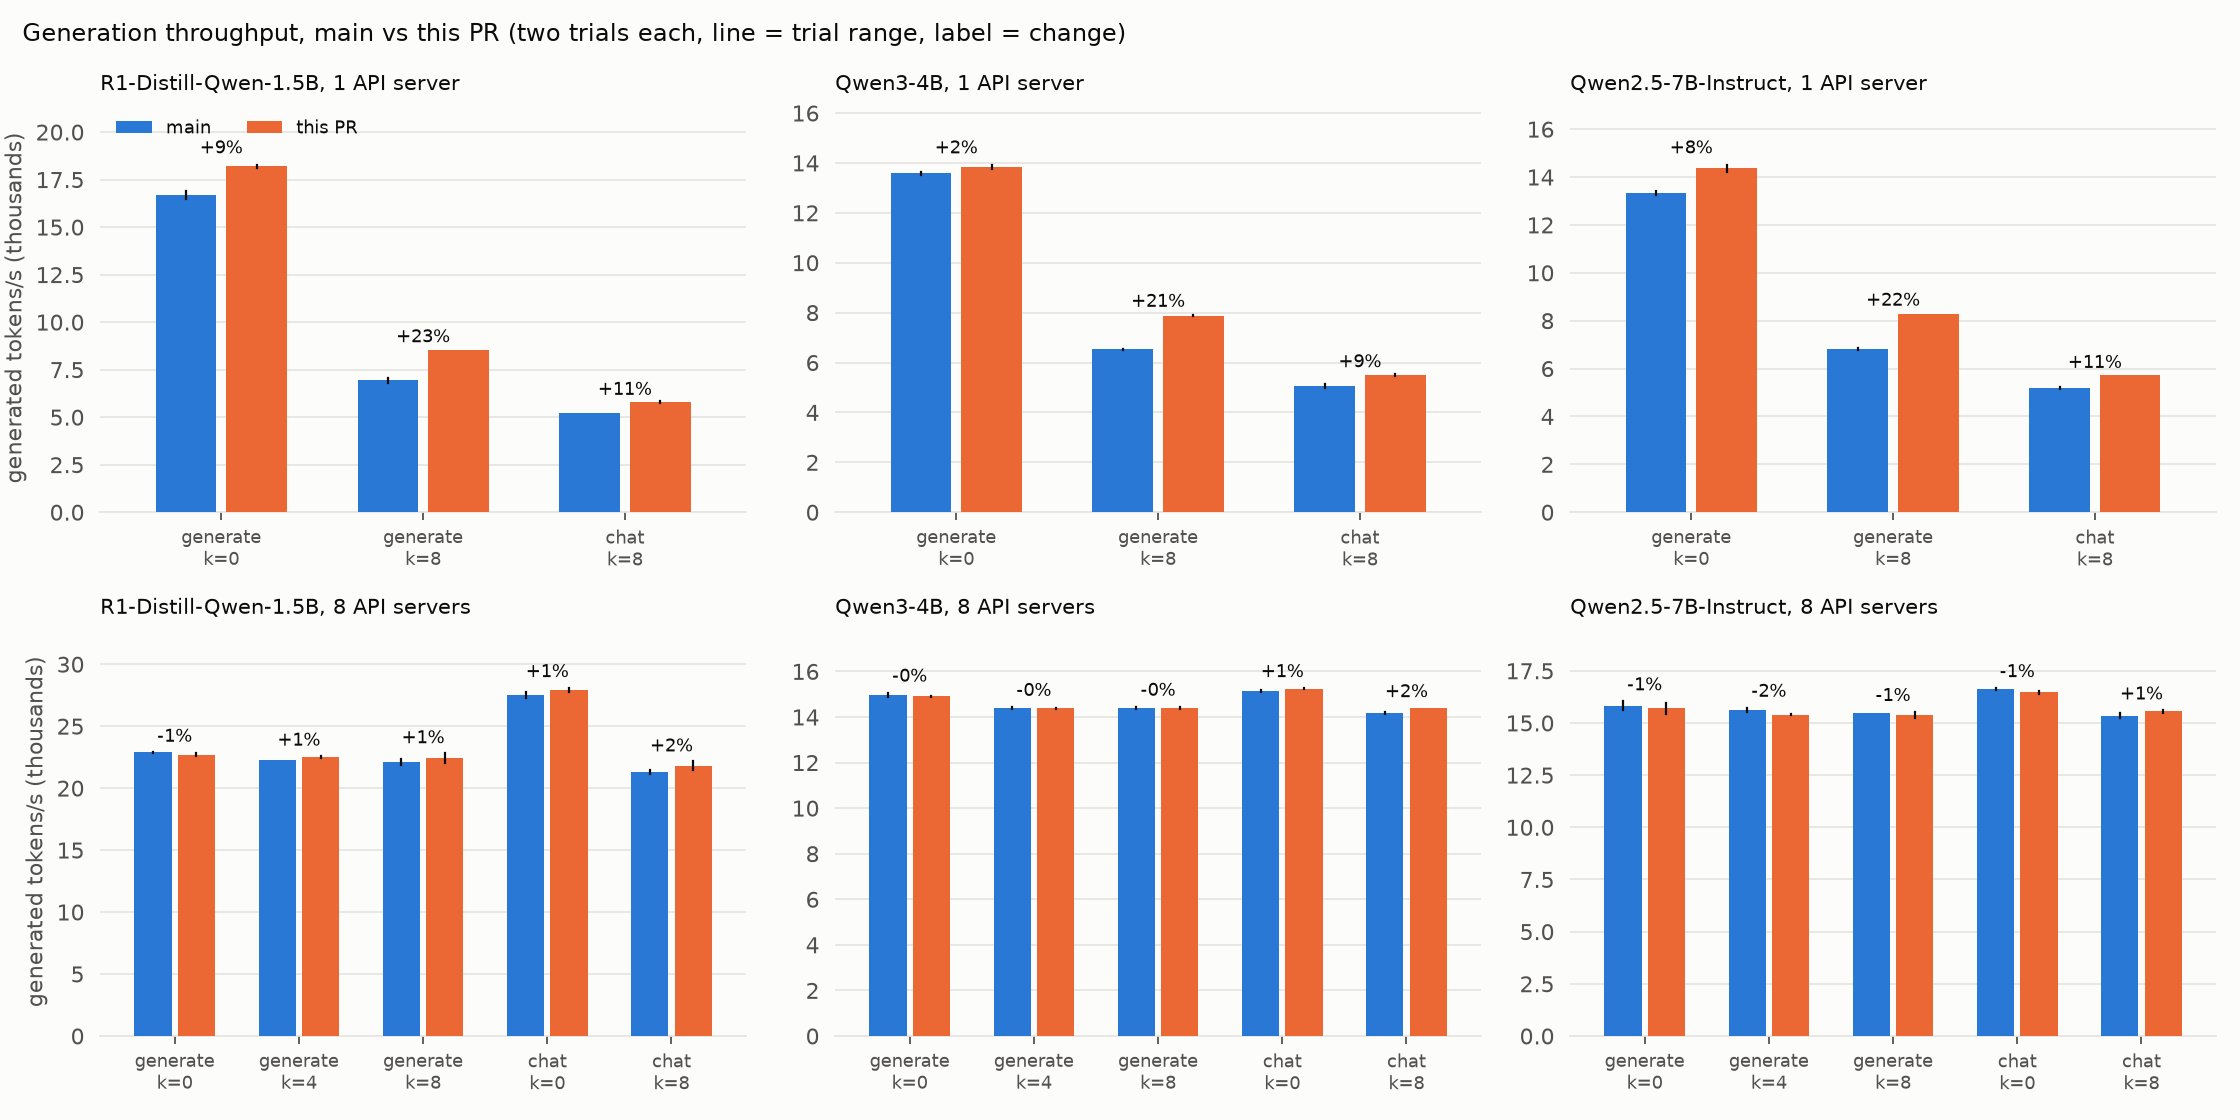
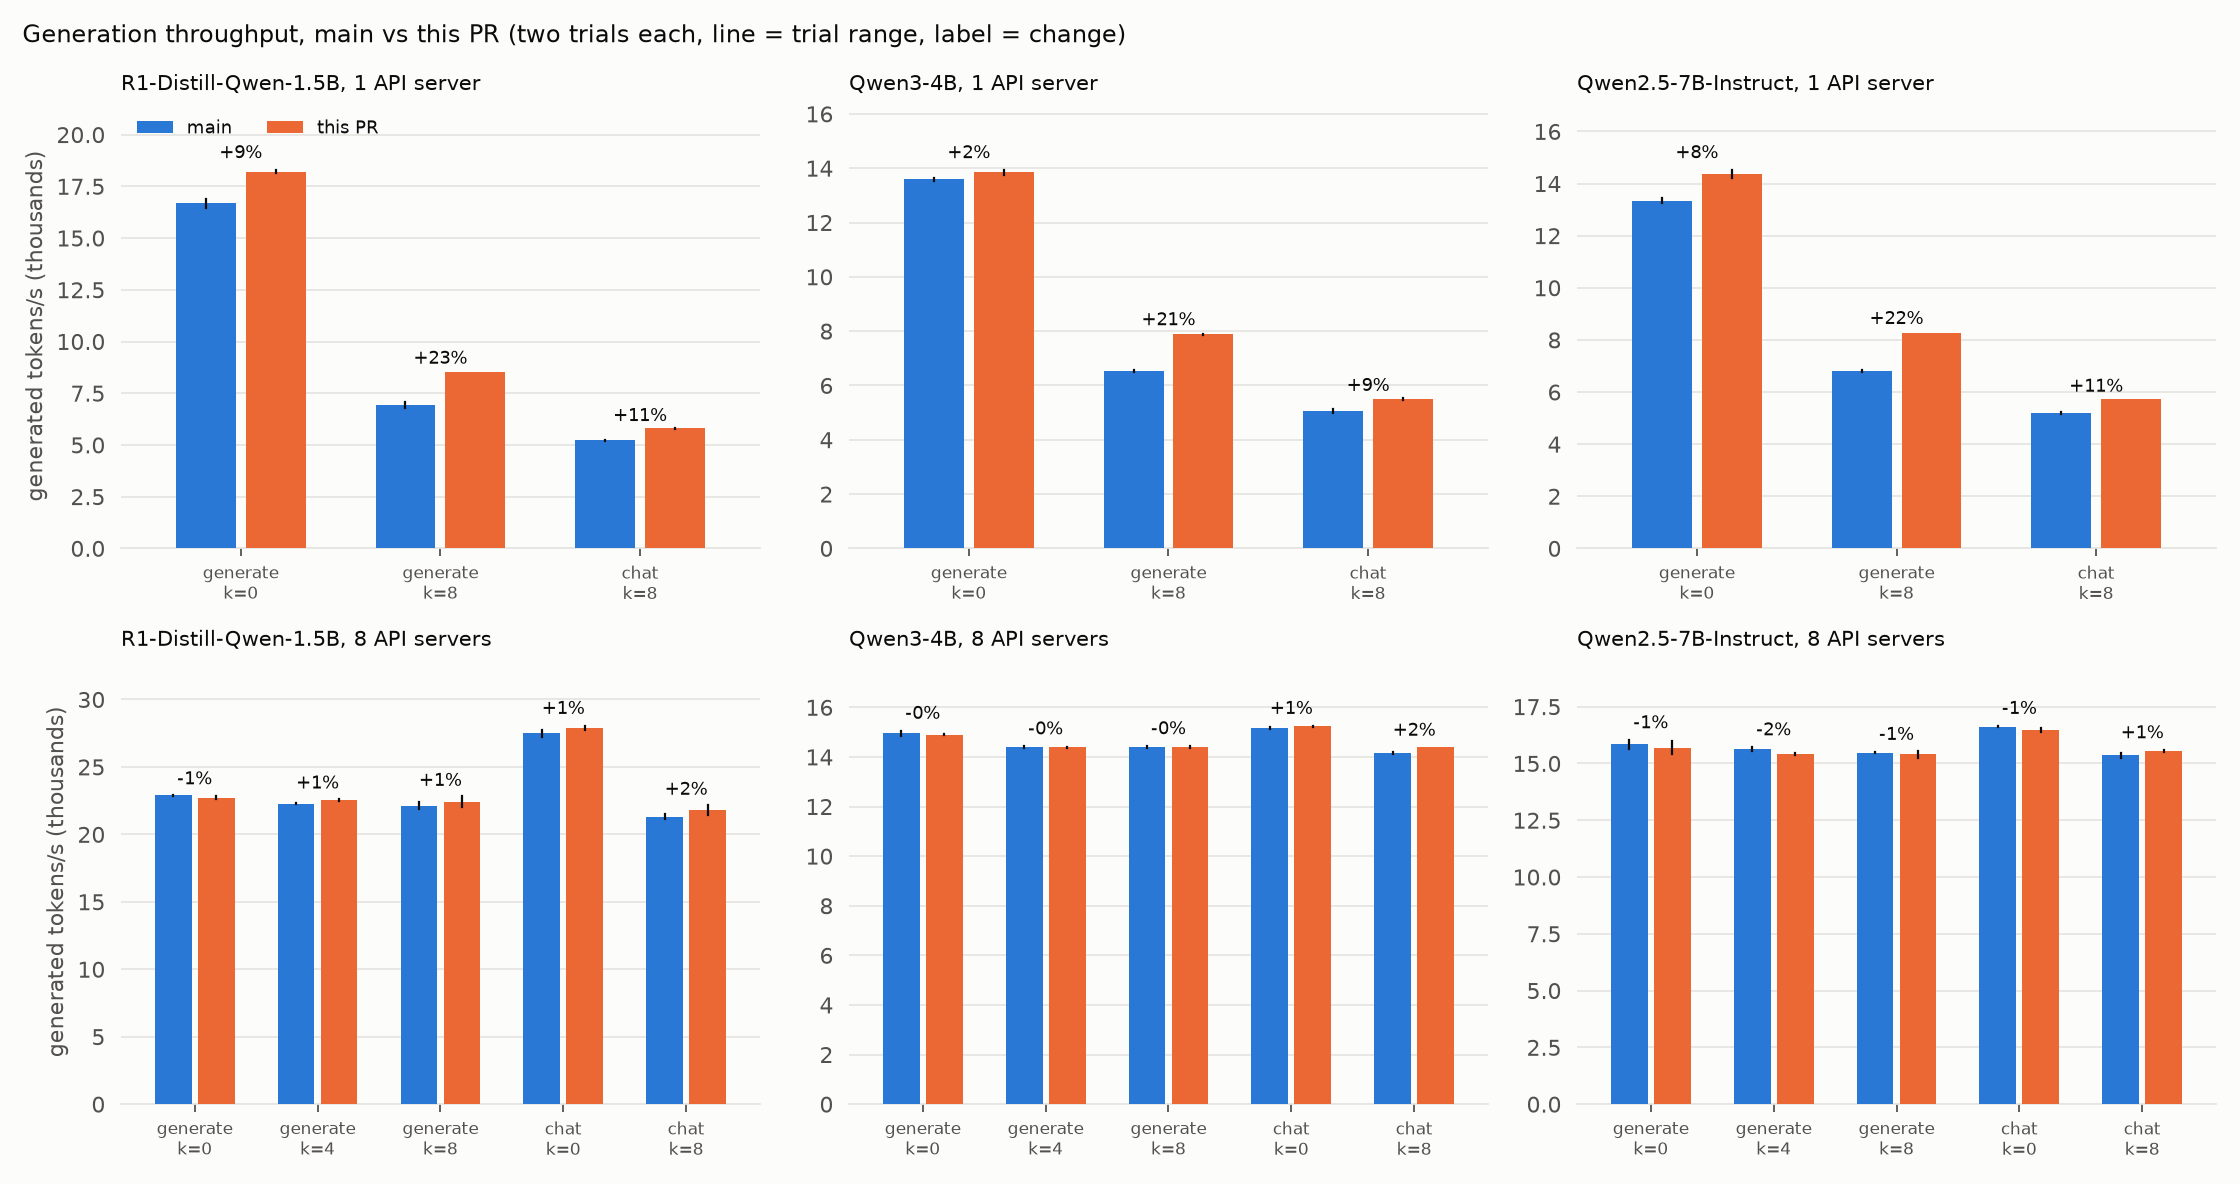
Add flat_logprobs figures and the updated bench scripts

diff --git a/logprob-responses/bench.py b/logprob-responses/bench.py
@@ -10,6 +10,8 @@ Endpoints: `tito` (/inference/v1/generate, token ids in, token ids out, main's i
 
 import argparse
 import asyncio
+import base64
+import io
 import json
 import os
 import random
@@ -17,6 +19,7 @@ import statistics
 import time
 
 import aiohttp
+import numpy as np
 from datasets import load_dataset
 from transformers import AutoTokenizer
 
@@ -100,6 +103,8 @@ async def one(session, args, prompt_ids, messages, sem, rows):
         }
         if args.no_detokenize:
             params["detokenize"] = False
+        if args.flat_logprobs:
+            params["flat_logprobs"] = True
         if args.endpoint == "completions":
             path = "/v1/completions"
             payload = {"model": MODEL, "prompt": prompt_ids, "return_token_ids": True, "return_tokens_as_token_ids": True, **params}
@@ -124,7 +129,14 @@ async def one(session, args, prompt_ids, messages, sem, rows):
             n_tokens = len(choice["token_ids"])
             mask_entries = sum(map(len, choice.get("sampling_mask") or []))
             tops = None
-            if args.logprobs:
+            if args.logprobs and choice.get("flat_logprobs"):
+                flat = {k: np.load(io.BytesIO(base64.b64decode(v))) for k, v in choice["flat_logprobs"].items()}
+                if "offsets" in flat:
+                    offsets = flat["offsets"]
+                    tops = [dict(zip(flat["token_ids"][a:b].tolist(), flat["logprobs"][a:b].tolist())) for a, b in zip(offsets[:-1], offsets[1:])]
+                else:
+                    tops = [dict(zip(ids, lps)) for ids, lps in zip(flat["token_ids"].tolist(), flat["logprobs"].tolist())]
+            elif args.logprobs:
                 if args.endpoint == "completions":
                     tops = [{int(t.removeprefix("token_id:")): lp for t, lp in top.items()} for top in choice["logprobs"]["top_logprobs"]]
                 else:
@@ -210,6 +222,7 @@ if __name__ == "__main__":
     parser.add_argument("--out", required=True)
     parser.add_argument("--shard", default="0/1", help="i/n: this client takes every n-th prompt starting at i")
     parser.add_argument("--no-detokenize", action="store_true", help="ask the server not to produce text")
+    parser.add_argument("--flat-logprobs", action="store_true", help="sampling_params.flat_logprobs: logprobs as npy arrays")
     parser.add_argument("--force-close", action="store_true", help="one TCP connection per request instead of keep-alive")
     parser.add_argument("--seed", type=int, default=0)
     args = parser.parse_args()

diff --git a/logprob-responses/micro.py b/logprob-responses/micro.py
@@ -99,7 +99,41 @@ def main():
         "model_dump_json": timeit(lambda: lp.model_dump_json(), reps),
         "bytes": len(starlette_json(dumped)),
     }
-    for ep in ("tito", "chat"):
+    # flat_logprobs on the branch that has it: the container filled like the engine does, then the npy response
+    try:
+        from vllm.entrypoints.scale_out.token_in_token_out.serving import _create_flat_logprobs
+        from vllm.logprobs import FlatLogprobs, append_logprobs_for_next_position
+    except ImportError:
+        pass
+    else:
+        rows = []  # the engine's layout: the sampled token first, then k candidates, k + 1 entries per position
+        for i, sampled in enumerate(ids):
+            cands = [2000 + (i * 31 + j * 101) % 50000 for j in range(k)]
+            rows.append(([sampled, *cands], [-0.3 - (i % 5) / 10, *(-1.0 - j for j in range(k))]))
+
+        def fill():
+            flat = FlatLogprobs()
+            for row_ids, row_lps in rows:
+                append_logprobs_for_next_position(flat, row_ids, row_lps, [None] * len(row_ids), 1, k)
+            return flat
+
+        flat = fill()
+
+        def flat_build():
+            lp = _create_flat_logprobs(flat)
+            return GenerateTokensResponse(
+                request_id="r", choices=[GenerateTokensChoice(index=0, token_ids=ids, flat_logprobs=lp)],
+                usage=UsageInfo(prompt_tokens=10, completion_tokens=tokens, total_tokens=tokens + 10),
+            )
+
+        resp = flat_build()
+        report["flat"] = {
+            "fill": timeit(fill, reps),
+            "build": timeit(flat_build, reps),
+            "model_dump_json": timeit(lambda: resp.model_dump_json(), reps),
+            "bytes": len(resp.model_dump_json().encode()),
+        }
+    for ep in [ep for ep in ("tito", "chat", "flat") if ep in report]:
         report[ep] = {key: (v * 1e6 / tokens if key != "bytes" else v / tokens) for key, v in report[ep].items()}
     print(json.dumps(report))
 
